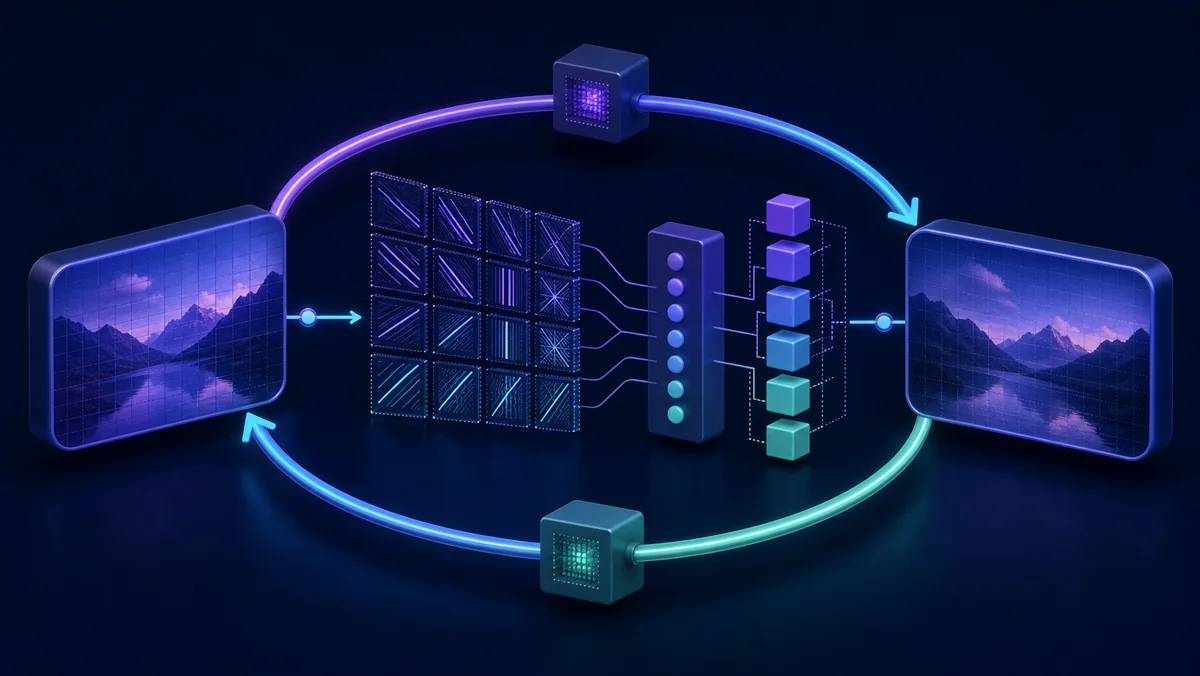
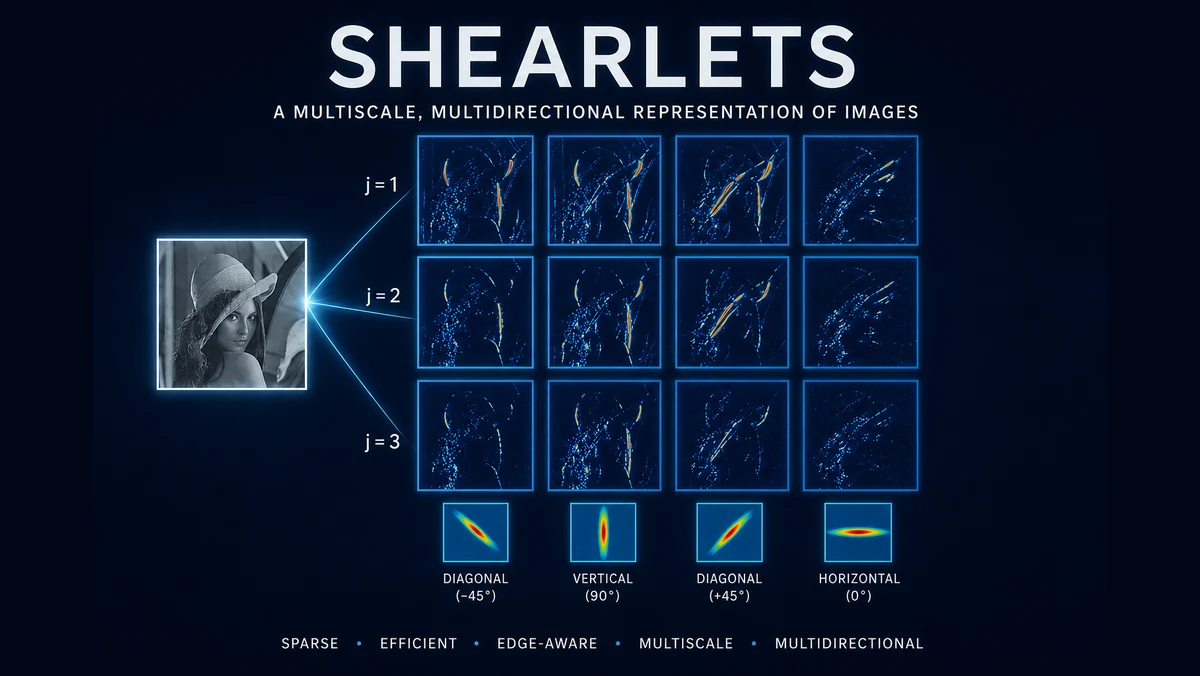
assets: update shearlet publication image

diff --git a/docs/content-approvals.md b/docs/content-approvals.md
@@ -361,6 +361,22 @@ Approval states: `pending`, `approved`, or `omit`.
   this replacement in the Codex task on 2026-07-24.
 - Approved by/date: `Johannes Erfurt, 2026-07-24`
 
+## Additional public content approval — Shearlet publication visual
+
+- Status: approved for public website use
+- Source supplied by Johannes:
+  `codex-clipboard-b08754ab-ca4b-45e2-8e46-627f7d15f3da.png`
+- Public derivative:
+  `public/assets/publications/shearlet-intensity-classification-loop-filter.webp`
+- Processing: resized from 1536x1024 to a metadata-free 1200x676 WebP and
+  centered on a matching dark background. The complete supplied composition is
+  retained without cropping; the source PNG is not published.
+- Presentation: replaces the previous concept illustration on the journal
+  shearlet publication card and in its detail dialog.
+- Public-use approval: Johannes supplied the image and explicitly requested
+  this replacement in the Codex task on 2026-07-24.
+- Approved by/date: `Johannes Erfurt, 2026-07-24`
+
 ## H-005 — Public CV
 
 - Status: replacement approved; visual design prioritized over ATS optimization

diff --git a/docs/project-status.md b/docs/project-status.md
@@ -55,6 +55,18 @@ Updated: 2026-07-24
 
 ## Iteration log
 
+2026-07-24 — Shearlet journal publication image replacement — complete
+Result: Replaced the journal shearlet paper's concept artwork with Johannes'
+supplied shearlet decomposition visual. The complete 3:2 composition is centered
+within the existing 16:9 publication frame so no labels or diagrams are cropped.
+Evidence: source inspection -> 1536x1024 PNG; public derivative -> 1200x676,
+metadata-free WebP, 76,262 bytes; visual inspection -> complete title, three
+scale rows, directional response grid, directional kernels, and descriptors
+visible.
+Commit: `assets: update shearlet publication image` (this iteration)
+Blockers: none
+Next: H-008 — perform live acceptance and the 30-second scan test
+
 2026-07-24 — Doctoral-thesis publication image replacement — complete
 Result: Replaced the doctoral-thesis concept artwork with Johannes' supplied
 in-loop-filtering visual. The complete 3:2 composition is centered within the
